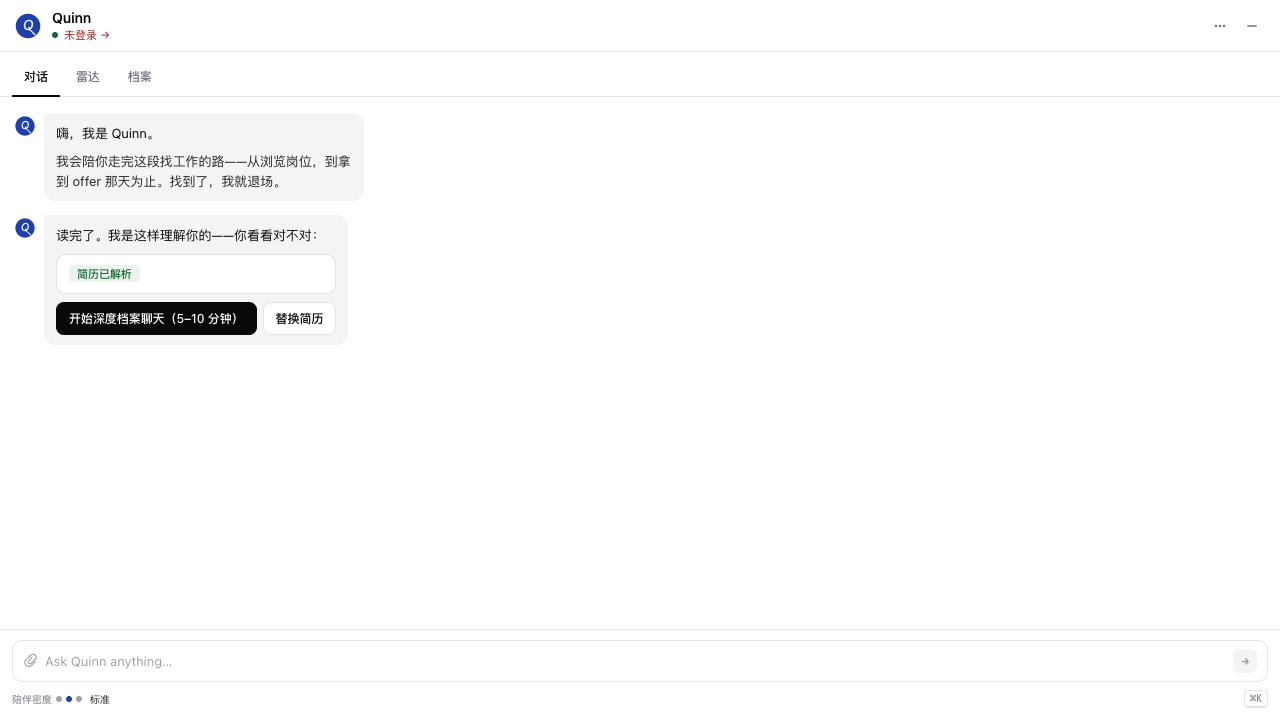
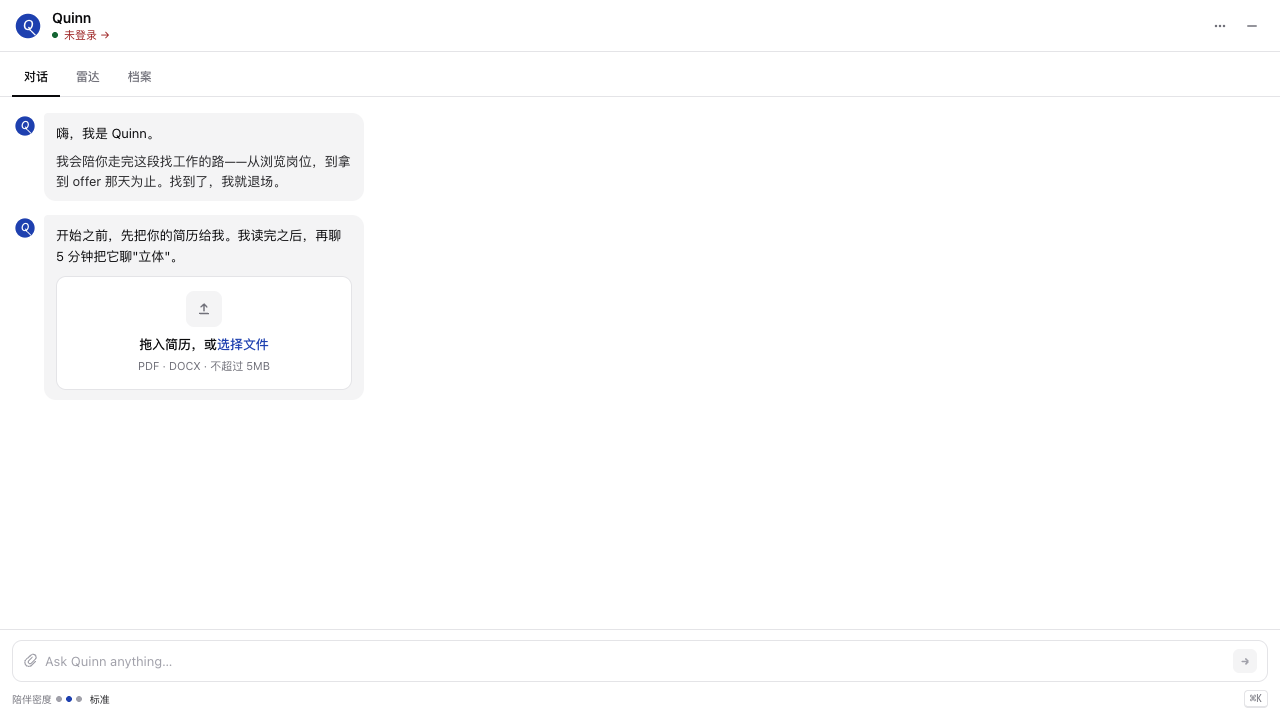
update

Changed region(s): [[0.0312, 0.3056, 0.2812, 0.5194]]

diff --git a/extension/src/sidepanel/routes/Onboarding.tsx b/extension/src/sidepanel/routes/Onboarding.tsx
@@ -168,7 +168,7 @@ export function Onboarding() {
         <QMsg>
           <div>嗨，我是 Quinn。</div>
           <div style={{ marginTop: 8, color: 'var(--ink-2)' }}>
-            我会陪你走完这段找工作的路——从浏览岗位，到拿到 offer 那天为止。找到了，我就退场。
+            我帮你找工作、改简历、投简历。
           </div>
         </QMsg>
 
